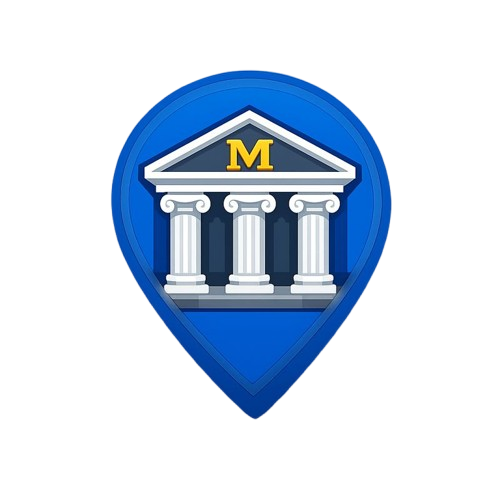
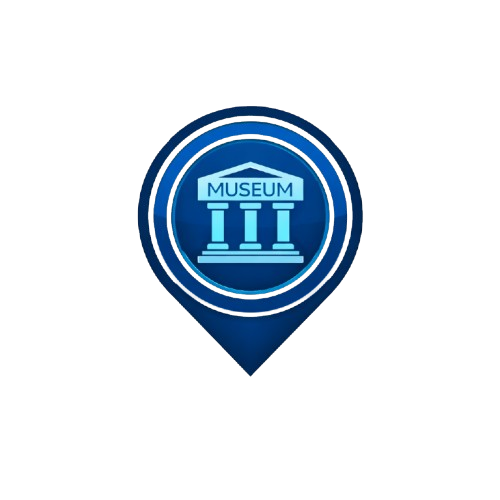
Melhora nos icones e alteraçao nas functions

Changed region(s): [[0.21, 0.12, 0.81, 0.84]]

diff --git a/frontend/src/mapa_personalizado/scripts/functions.js b/frontend/src/mapa_personalizado/scripts/functions.js
@@ -41,6 +41,7 @@ function renderLabels(features) {
         var isComercio = (props.tipo && props.tipo.toLowerCase() === "comercio");
         var isTurismo = (props.tipo && props.tipo.toLowerCase() === "turismo");
         var isReitoria = (props.tipo && props.tipo.toLowerCase() === "reitoria")
+        var isBloco = (props.tipo && props.tipo.toLowerCase() === "bloco")
         var isBiblioteca = (props.tipo && props.tipo.toLowerCase() === "biblioteca")
         var isEstacionamento = (props.tipo && props.tipo.toLowerCase() === "estacionamento")
         var isMuseu = (props.tipo && props.tipo.toLowerCase() === "museu")
@@ -67,8 +68,8 @@ function renderLabels(features) {
             labelMarker = L.marker(latLng, {
                 icon: L.icon({
                     iconUrl: 'documents/imgs/assets/comercio-icon.png', 
-                    iconSize: [44, 44], 
-                    iconAnchor: [24, 38],
+                    iconSize: [60, 60], 
+                    iconAnchor: [31, 43],
                     popupAnchor: [0, -32]
                 }),
                 interactive: true 
@@ -95,8 +96,8 @@ function renderLabels(features) {
             labelMarker = L.marker(latLng, {
                 icon: L.icon({
                     iconUrl: 'documents/imgs/assets/parque-das-pedras.png', 
-                    iconSize: [48, 48], 
-                    iconAnchor: [24, 24],
+                    iconSize: [66, 66], 
+                    iconAnchor: [28, 42],
                     popupAnchor: [0, -32]
                 }),
                 interactive: true 
@@ -124,8 +125,8 @@ function renderLabels(features) {
             labelMarker = L.marker(latLng, {
                 icon: L.icon({
                     iconUrl: 'documents/imgs/assets/reitoria-icon.png', 
-                    iconSize: [48, 48], 
-                    iconAnchor: [24, 24],
+                    iconSize: [66, 66], 
+                    iconAnchor: [34, 42],
                     popupAnchor: [0, -32]
                 }),
                 interactive: true 
@@ -152,8 +153,8 @@ function renderLabels(features) {
             labelMarker = L.marker(latLng, {
                 icon: L.icon({
                     iconUrl: 'documents/imgs/assets/biblioteca-icon.png', 
-                    iconSize: [48, 48], 
-                    iconAnchor: [27, 29],
+                    iconSize: [66, 66], 
+                    iconAnchor: [34, 42],
                     popupAnchor: [0, -32]
                 }),
                 interactive: true 
@@ -180,8 +181,8 @@ function renderLabels(features) {
             labelMarker = L.marker(latLng, {
                 icon: L.icon({
                     iconUrl: 'documents/imgs/assets/museu-icon.png', 
-                    iconSize: [48, 48], 
-                    iconAnchor: [18, 26],
+                    iconSize: [66, 66], 
+                    iconAnchor: [32, 42],
                     popupAnchor: [0, -32]
                 }),
                 interactive: true 
@@ -191,8 +192,6 @@ function renderLabels(features) {
 
             camadaComercios.addLayer(labelMarker);
         }
-
-
         if(isEstacionamento){
             var dadosExtras = detalhesEstacionamento[props.nome];
             // Placeholders
@@ -210,8 +209,8 @@ function renderLabels(features) {
             labelMarker = L.marker(latLng, {
                 icon: L.icon({
                     iconUrl: 'documents/imgs/assets/estacionamento-icon.png', 
-                    iconSize: [48, 48], 
-                    iconAnchor: [18, 38],
+                    iconSize: [66, 66], 
+                    iconAnchor: [30, 41],
                     popupAnchor: [0, -32]
                 }),
                 interactive: true 
@@ -221,8 +220,6 @@ function renderLabels(features) {
 
             camadaComercios.addLayer(labelMarker);
         }
-        
-        
         if(isAuditorio){
             var dadosExtras = detalhesAuditorio[props.nome];
             // Placeholders
@@ -240,8 +237,8 @@ function renderLabels(features) {
             labelMarker = L.marker(latLng, {
                 icon: L.icon({
                     iconUrl: 'documents/imgs/assets/auditorio-icon.png', 
-                    iconSize: [48, 48], 
-                    iconAnchor: [18, 38],
+                    iconSize: [66, 66], 
+                    iconAnchor: [31,41],
                     popupAnchor: [0, -32]
                 }),
                 interactive: true 
@@ -251,7 +248,6 @@ function renderLabels(features) {
 
             camadaComercios.addLayer(labelMarker);
         }
-
         if(isEva){
             var dadosExtras = detalhesEva[props.nome];
             // Placeholders
@@ -269,8 +265,8 @@ function renderLabels(features) {
             labelMarker = L.marker(latLng, {
                 icon: L.icon({
                     iconUrl: 'documents/imgs/assets/eva-icon.png', 
-                    iconSize: [48, 48], 
-                    iconAnchor: [24, 42],
+                    iconSize: [66, 66],
+                    iconAnchor: [34, 43],
                     popupAnchor: [0, -32]
                 }),
                 interactive: true 
@@ -280,7 +276,6 @@ function renderLabels(features) {
 
             camadaComercios.addLayer(labelMarker);
         }
-
         if(isGinasio){
             var dadosExtras = detalhesGinasio[props.nome];
             // Placeholders
@@ -298,8 +293,8 @@ function renderLabels(features) {
             labelMarker = L.marker(latLng, {
                 icon: L.icon({
                     iconUrl: 'documents/imgs/assets/ginasio.png', 
-                    iconSize: [48, 48], 
-                    iconAnchor: [24, 42],
+                                        iconSize: [66, 66], 
+                    iconAnchor: [33, 40],
                     popupAnchor: [0, -32]
                 }),
                 interactive: true 
@@ -309,9 +304,44 @@ function renderLabels(features) {
 
             camadaComercios.addLayer(labelMarker);
         }
+        if(isBloco) {
+            if(props.nome && props.nome.toLowerCase() === "bloco a1"){
 
-        
+                var htmlLabel = `
+                    <h3>A1</h3>
+                `;
 
+                labelMarker = L.marker(latLng, {
+                    icon: L.divIcon({
+                        className: 'label-bloco',
+                        html: htmlLabel,
+                        iconSize: [90, 40],
+                        iconAnchor: [39, 32] 
+                    }),
+                    interactive: false
+                });
+
+                labelMarker.bindPopup(popupContent);
+
+                camadaComercios.addLayer(labelMarker);
+            }
+            if (props.nome && props.nome.toLowerCase() === "Bloco A2")return
+            if (props.nome && props.nome.toLowerCase() === "Bloco B1")return
+            if (props.nome && props.nome.toLowerCase() === "Bloco B2")return
+            if (props.nome && props.nome.toLowerCase() === "Bloco C1")return
+            if (props.nome && props.nome.toLowerCase() === "Bloco C2")return
+            if (props.nome && props.nome.toLowerCase() === "Bloco D")return
+            if (props.nome && props.nome.toLowerCase() === "Bloco E")return
+            if (props.nome && props.nome.toLowerCase() === "Bloco F1")return
+            if (props.nome && props.nome.toLowerCase() === "Bloco G")return
+            if (props.nome && props.nome.toLowerCase() === "Bloco H")return
+            if (props.nome && props.nome.toLowerCase() === "Bloco I")return
+            if (props.nome && props.nome.toLowerCase() === "Bloco J")return
+            if (props.nome && props.nome.toLowerCase() === "Bloco K")return
+            if (props.nome && props.nome.toLowerCase() === "Bloco F2")return
+            if (props.nome && props.nome.toLowerCase() === "Bloco L")return
+            
+        }
         else{
             var htmlIcon = `
                 <div class="ponto-interesse"></div>
@@ -332,6 +362,8 @@ function renderLabels(features) {
                 camadasLabels[andar].addLayer(labelMarker);
             }
         }
+
+
     });
     }
 

diff --git a/frontend/src/mapa_personalizado/css/style-map.css b/frontend/src/mapa_personalizado/css/style-map.css
@@ -57,6 +57,21 @@ POP UP DE NAVEGAÇÃO
     }
 }
 
+/* ===============================
+POPUP COMÉRCIO
+   =============================== */
+
+.label-bloco {
+    color: white;
+    width: 230px;
+    text-align: center;
+    font-family: Arial, Helvetica, sans-serif;
+    font-size: 16px;
+    .icon {
+  transform: rotate(120deg);
+}
+
+}
 
 /* ===============================
 POPUP COMÉRCIO

diff --git a/frontend/src/mapa_personalizado/scripts/initializer.js b/frontend/src/mapa_personalizado/scripts/initializer.js
@@ -306,7 +306,7 @@ const detalhesAuditorio = {
 };
 
 const detalhesEva = {
-    "Eva": {
+    "EVA": {
         img: "documents/imgs/eva.webp",
         desc: `
             <ul class="popup-lista">
